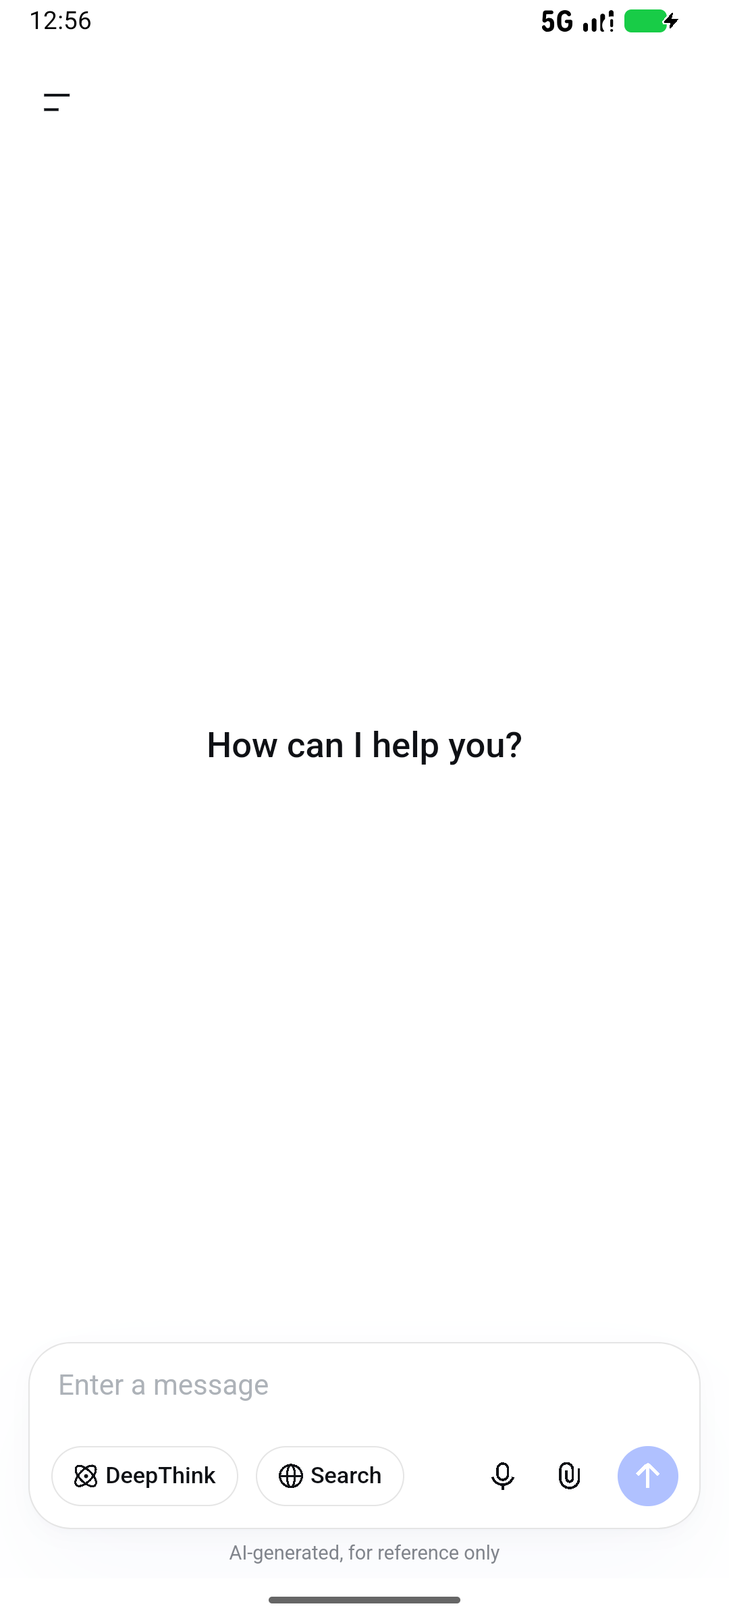
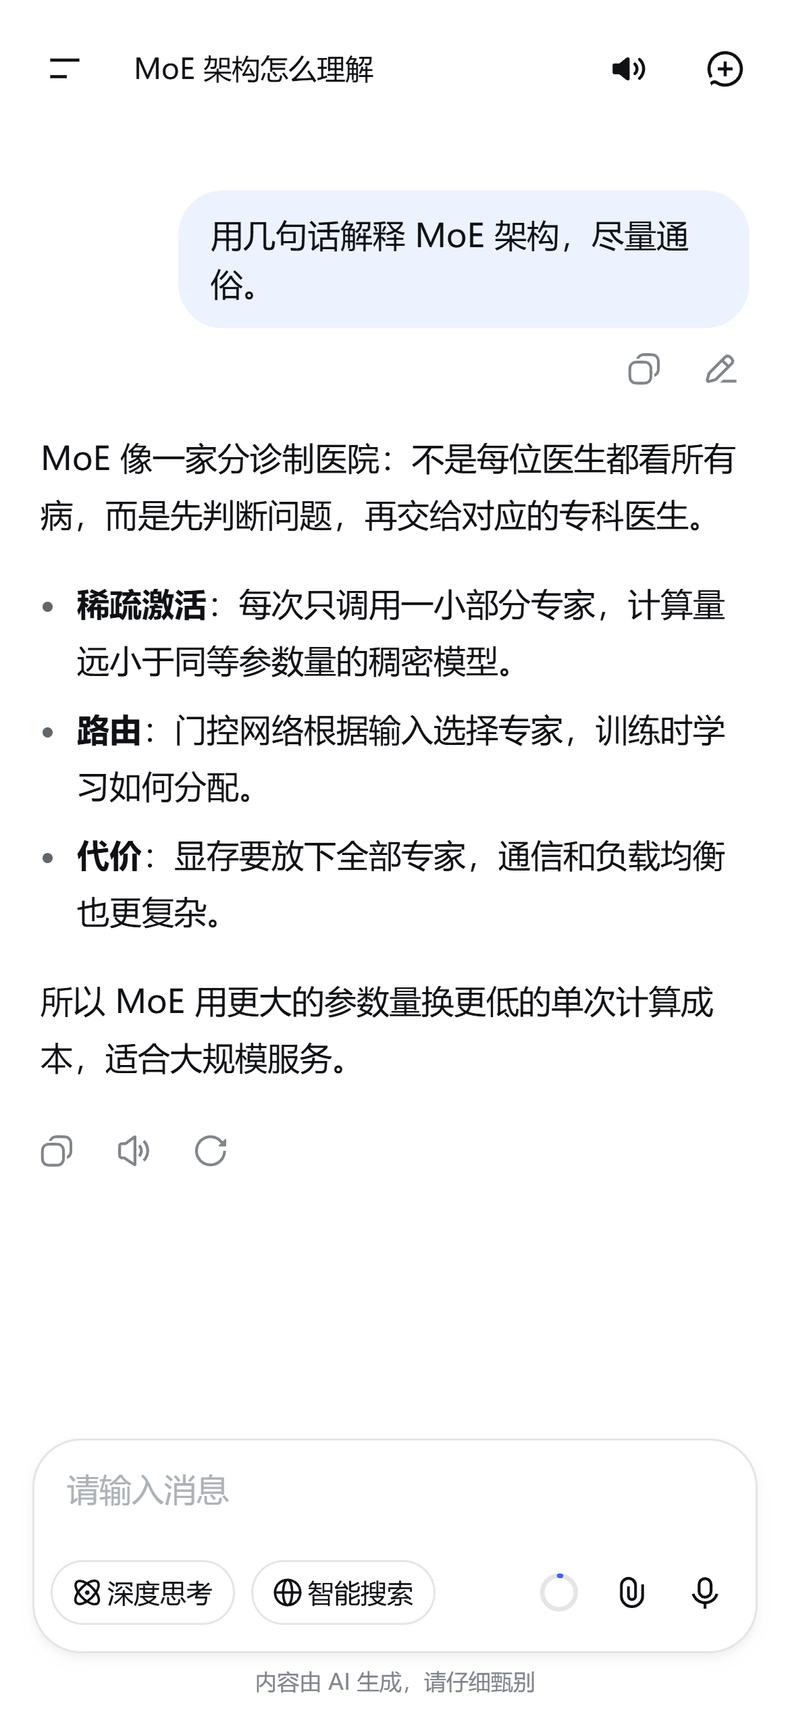
docs: 更新 README 截图与功能说明

diff --git a/README.en.md b/README.en.md
@@ -8,13 +8,18 @@ English | [简体中文](README.md)
 
 [![Latest release](https://img.shields.io/github/v/release/Jay-Victor/DeepSeek-ChatBot?label=release&color=4D6BFE)](https://github.com/Jay-Victor/DeepSeek-ChatBot/releases/latest)
 [![Download APK](https://img.shields.io/badge/download-APK-3DDC84?logo=android&logoColor=white)](https://github.com/Jay-Victor/DeepSeek-ChatBot/releases/latest)
+[![DeepSeek](https://img.shields.io/badge/DeepSeek-4D6BFE?logo=deepseek&logoColor=white)](https://www.deepseek.com/)
 
 Packs [deepseek-ai/chat-demo](https://github.com/deepseek-ai/chat-demo) 0.1.1 into an installable Android app:
 **the upstream web build, wrapped in a thin Kotlin WebView shell**. No UI rewrite, no protocol changes.
 
-<p align="center">
-  <img src="docs/screenshot.png" width="300" alt="Screenshot">
-</p>
+| Chat | Sidebar |
+| :---: | :---: |
+| <img src="docs/screenshot.png" width="260" alt="Chat screen"> | <img src="docs/screenshot-sidebar.png" width="260" alt="Sidebar"> |
+
+| Settings · General | Settings · About |
+| :---: | :---: |
+| <img src="docs/screenshot-settings-general.png" width="260" alt="General settings"> | <img src="docs/screenshot-settings-about.png" width="260" alt="About page"> |
 
 | | |
 | --- | --- |
@@ -25,45 +30,54 @@ Packs [deepseek-ai/chat-demo](https://github.com/deepseek-ai/chat-demo) 0.1.1 in
 | Native deps | androidx only (webkit / browser / activity / core-splashscreen), no third-party runtime |
 | Toolchain | Gradle 8.14.4 · AGP 8.13.0 · Kotlin 2.3.0 · JDK 17+ |
 
-## Why a WebView shell
-
-The upstream project is a pure static SPA: `rspack` emits static files, there is no backend, all state lives in
-localStorage and IndexedDB, and requests go straight to the DeepSeek API. Getting it into a WebView only needs the six
-capabilities a browser has and a WebView does not. Rewriting it in Kotlin would mean reimplementing Markdown, KaTeX,
-Mermaid, and the whole history import/export layer for no gain.
-
 ## Features
 
-Everything in the UI comes from upstream: multiple sessions with auto-generated titles, edit / regenerate / branch
-switching, streaming answers, deep thinking, web search with source citations, attachments (paste and drag-drop),
-voice input and read-aloud, Markdown with syntax highlighting, KaTeX math and Mermaid diagrams, Chinese and English,
-light and dark themes, ZIP history import/export.
+### From upstream
 
-Added by the shell: system back button, status bar appearance, safe areas and keyboard avoidance, microphone
-permission, file picker, saving exports to disk, opening external links, an optional "collapse thinking
-automatically" switch, version info / GitHub Release update checks in Settings → About (automatic checks can be
-turned off), a context-usage ring in the composer (DeepSeek-V4 tokenizer, 1M window, refreshed after each
-turn), and in-app update installation from Settings → About (SHA-256, signature and version are verified before
-handing the APK to the system installer). On mobile, the sidebar gains local session search (titles plus the
-current branch's text and attachment names, with highlighted hits), a floating New button at the bottom, and
-multi-select with batch pin/delete, and the session header's new-chat button is always visible; the session header
-also gains an auto-read toggle that reads each completed reply aloud, and the session menu gains pin/unpin and
-multi-select. The desktop sidebar is unchanged.
+- Multiple sessions with auto-generated titles, edit / regenerate / branch switching
+- Streaming answers, deep thinking, web search with source citations
+- Attachments (paste / drag-drop), voice input and read-aloud
+- Markdown / syntax highlighting / KaTeX / Mermaid
+- Chinese and English, light and dark themes, ZIP history import/export
 
-## Requirements
+### Added by the shell
+
+- **System capabilities**: back button, status bar appearance, safe areas and keyboard avoidance, microphone, file picker, external links
+- **Export**: ZIP through SAF (WebView drops `blob:` downloads)
+- **Mobile sidebar**: session search (title + current branch text, highlighted hits), floating New button, multi-select with batch pin/delete
+- **Session header**: auto-read toggle; reads each completed reply aloud and shows a 1.6-second centered hint when toggled
+- **Session menu**: pin / unpin and multi-select
+- **Settings & About**: auto-collapse thinking, context-usage ring (DeepSeek-V4 tokenizer, 1M window), version and update check, in-app install
+
+## Quick start
+
+Download the signed APK from [Releases](https://github.com/Jay-Victor/DeepSeek-ChatBot/releases/latest), or:
+
+```bash
+adb install -r DeepSeekChatBot-v0.1.9-release.apk
+```
+
+On first launch, add your DeepSeek API key in Settings → Data. The key is written only to the on-device WebView localStorage and is excluded from cloud backup (`allowBackup=false`).
+
+**The same `applicationId` must always be signed with the same keystore** — otherwise the only option is uninstall and reinstall, which wipes local sessions and the API key.
+
+## Why a WebView shell
+
+The upstream project is a pure static SPA: `rspack` emits static files, there is no backend, all state lives in localStorage and IndexedDB, and requests go straight to the DeepSeek API. Getting it into a WebView only needs six kinds of capabilities a browser has and a WebView does not. Rewriting it in Kotlin would mean reimplementing Markdown, KaTeX, Mermaid, and the whole history import/export layer for no gain. So the shell only fills the gaps.
+
+## Build
+
+Requirements:
 
 - Node.js 22+ and pnpm
 - JDK 17+ (this repository was built with 21)
 - Android SDK: platform `android-36`, build-tools `36.1.0`
 
-## Build
-
 ```bash
 scripts/build-apk.sh release        # or scripts/build-apk.sh debug
 ```
 
-The script does three things: `pnpm build` inside `web/`, sync `web/dist` into
-`android/app/src/main/assets/www`, then `./gradlew assembleRelease`. Output:
+The script does three things: `pnpm build` inside `web/`, sync `web/dist` into `android/app/src/main/assets/www`, then `./gradlew assembleRelease`. Output:
 
 ```
 android/app/build/outputs/apk/release/DeepSeekChatBot-v0.1.9-release.apk
@@ -78,23 +92,7 @@ cp -r dist/. ../android/app/src/main/assets/www/
 cd ../android && ./gradlew assembleRelease
 ```
 
-> Do not serve `web/dist` from a static server while building: rspack cleans the output directory and fails with
-> `EBUSY` on Windows.
-
-## Install
-
-```bash
-adb install -r android/app/build/outputs/apk/release/DeepSeekChatBot-v0.1.9-release.apk
-```
-
-If you would rather not build it yourself, the signed APK is attached to the
-[latest release](https://github.com/Jay-Victor/DeepSeek-ChatBot/releases/latest).
-
-On first launch the app asks for an API key (Settings → Data). The key is written only to the on-device WebView
-localStorage and is excluded from cloud backup (`allowBackup=false`).
-
-**The same `applicationId` must always be signed with the same keystore** — otherwise the only option is uninstall and
-reinstall, which wipes local sessions and the API key.
+> Do not serve `web/dist` from a static server while building: rspack cleans the output directory and fails with `EBUSY` on Windows.
 
 ## Signing
 
@@ -104,9 +102,7 @@ reinstall, which wipes local sessions and the API key.
 KEYSTORE_FILE / KEYSTORE_PASSWORD / KEYSTORE_ALIAS / KEY_PASSWORD
 ```
 
-If any of them is missing, `assembleRelease` still produces an APK, just unsigned. The keystore generated for this
-repository is recorded in `android/KEYSTORE_INFO.txt` (also gitignored) — back it up, or you lose the ability to
-upgrade in place.
+If any of them is missing, `assembleRelease` still produces an APK, just unsigned. The keystore generated for this repository is recorded in `android/KEYSTORE_INFO.txt` (also gitignored) — back it up, or you lose the ability to upgrade in place.
 
 ## What the shell implements
 
@@ -121,53 +117,35 @@ upgrade in place.
 | System bars and keyboard | Container padding reserves status bar, navigation bar and IME height; status bar icons follow the page theme |
 | Light/dark | `values/` uses a light base theme, `values-night/` a dark one — WebView derives `prefers-color-scheme` from the app theme, not from system uiMode |
 
+## Known limitations
+
+- **Auto-read makes TTS requests**: one per completed reply, off by default; only for the active chat, only when visible, and it does not interrupt an ongoing reading
+- **Session search, pinning and multi-select are mobile-only**: search matches titles, current branch text and attachment names, not thinking blocks; the first search builds a local index, so a large history may pause briefly
+- **Background / lock screen**: the system throttles WebView, so long generations may be interrupted. Keeping it running while locked needs a foreground service, which is not implemented
+- **System dark mode**: the page renders with the theme present at launch (`configChanges` includes `uiMode` so the activity is never recreated and streaming survives). A system theme switch takes effect on the next launch; the in-app Settings → Theme switch applies immediately
+- Large attachments (tens of MB) go through SAF into memory before upload; low-end devices risk OOM (`largeHeap` is enabled, which only helps)
+- DeepSeek endpoints only (`/anthropic/v1/messages`, `/anthropic/v1/files`, `/v1/tools/asr|tts`). Supporting an OpenAI-compatible endpoint means changing `web/src/services/api/`
+- In-app updates need access to GitHub release assets (the `api.github.com` asset endpoint is preferred). On restricted networks the download may fail; use "Download in browser" instead. The first install also requires allowing unknown sources in system settings
+- No iOS build: the same six capabilities would need a separate implementation there
+
+## Verification status
+
+Checked on Android 16 (API 36.1, x86_64 emulator) for the shell: page origin and secure context, CORS on the streaming endpoint and 401 error mapping, ZIP export written to disk (downloaded file md5 matches the source data), microphone permission flow, file picker, external links opening in Custom Tabs, all three levels of back button behaviour, light/dark with status bar inversion, insets/keyboard without double spacing, and in-app update download progress / SHA-256 and signature verification / unknown-sources permission / system installer upgrade.
+
+v0.1.9's mobile sidebar (search, multi-select, pinned group, batch delete, floating New, persistent header button), session menu (pin / unpin / multi-select) and auto-read toggle (including the 1.6-second centered hint and the auto-read trigger) were checked in a 390×844 viewport; real audio output and the Android IME behaviour still need an on-device check.
+
 ## Repository layout
 
 ```
 web/        upstream chat-demo 0.1.1 sources; see web/PATCHES.md for local changes
 android/    Kotlin WebView shell (Gradle project)
 scripts/    build-apk.sh: build web → sync assets → build APK
-docs/       screenshots
+docs/       screenshots and per-version release notes
 references/ upstream archive and icon assets (not tracked)
 ```
 
-## Known limitations
-
-- **Session search and multi-select are mobile-only**: search matches titles, the current branch's text and
-  attachment names, but not thinking blocks. The first search builds a local index, so a large history may pause
-  briefly. Multi-select supports batch pin/delete; pinned state is stored locally and kept through ZIP export/import.
-  The desktop sidebar keeps its original full-width New button and list.
-- **Background / lock screen**: the system throttles WebView, so long generations may be interrupted. Keeping it
-  running while locked needs a foreground service, which is not implemented.
-- **System dark mode**: the page renders with the theme present at launch (`configChanges` includes `uiMode` so the
-  activity is never recreated and streaming survives). A system theme switch takes effect on the next launch; the
-  in-app Settings → Theme switch applies immediately.
-- Large attachments (tens of MB) go through SAF into memory before upload; low-end devices risk OOM (`largeHeap` is
-  enabled, which only helps).
-- DeepSeek endpoints only (`/anthropic/v1/messages`, `/anthropic/v1/files`, `/v1/tools/asr|tts`). Supporting an
-  OpenAI-compatible endpoint means changing `web/src/services/api/`.
-- In-app updates need access to GitHub release assets (the `api.github.com` asset endpoint is preferred). On
-  restricted networks the download may fail; use "Download in browser" instead. The first install also requires
-  allowing unknown sources in system settings. Keep the app in the foreground while downloading; if the process is
-  reclaimed, the download starts over.
-- No iOS build: the same six capabilities would need a separate implementation there.
-
-## Verification status
-
-Checked on Android 16 (API 36.1, x86_64 emulator): page origin and secure context, CORS on the streaming endpoint and
-401 error mapping, ZIP export written to disk (downloaded file md5 matches the source data), microphone permission
-flow, file picker, external links opening in Custom Tabs, all three levels of back button behaviour, light/dark with
-status bar inversion, insets/keyboard without double spacing, and in-app update download progress / SHA-256 and
-signature verification / unknown-sources permission / system installer upgrade. On-device confirmation is still
-pending. This version's mobile sidebar (search, multi-select, pinned group, batch delete, floating New, persistent
-header button), the session menu (pin / unpin / multi-select) and the auto-read toggle (including the 1.6-second
-centered hint and the auto-read trigger) were checked in a 390×844 viewport; real audio output and the Android IME
-behaviour still need an on-device check.
-
 ## License
 
-[MIT](LICENSE). `web/` is a derived copy of [deepseek-ai/chat-demo](https://github.com/deepseek-ai/chat-demo); its MIT
-notice is kept in `web/LICENSE` and ships with the build output. The icon artwork and the DeepSeek name are used for a
-personal, side-loaded build only.
+[MIT](LICENSE). `web/` is a derived copy of [deepseek-ai/chat-demo](https://github.com/deepseek-ai/chat-demo); its MIT notice is kept in `web/LICENSE` and ships with the build output. The icon artwork and the DeepSeek name are used for a personal, side-loaded build only.
 
 See [CHANGELOG.md](CHANGELOG.md) for history.

diff --git a/README.md b/README.md
@@ -8,13 +8,18 @@
 
 [![Latest release](https://img.shields.io/github/v/release/Jay-Victor/DeepSeek-ChatBot?label=release&color=4D6BFE)](https://github.com/Jay-Victor/DeepSeek-ChatBot/releases/latest)
 [![Download APK](https://img.shields.io/badge/download-APK-3DDC84?logo=android&logoColor=white)](https://github.com/Jay-Victor/DeepSeek-ChatBot/releases/latest)
+[![DeepSeek](https://img.shields.io/badge/DeepSeek-4D6BFE?logo=deepseek&logoColor=white)](https://www.deepseek.com/)
 
 把 [deepseek-ai/chat-demo](https://github.com/deepseek-ai/chat-demo) 0.1.1 原样装进 Android：
 **上游前端产物 + 一层 Kotlin WebView 壳**，不重写界面，也不改协议。
 
-<p align="center">
-  <img src="docs/screenshot.png" width="300" alt="界面截图">
-</p>
+| 会话 | 侧边栏 |
+| :---: | :---: |
+| <img src="docs/screenshot.png" width="260" alt="会话页截图"> | <img src="docs/screenshot-sidebar.png" width="260" alt="侧边栏截图"> |
+
+| 设置 · 通用 | 设置 · 关于 |
+| :---: | :---: |
+| <img src="docs/screenshot-settings-general.png" width="260" alt="通用设置截图"> | <img src="docs/screenshot-settings-about.png" width="260" alt="关于页截图"> |
 
 | | |
 | --- | --- |
@@ -25,26 +30,50 @@
 | 原生依赖 | 仅 androidx（webkit / browser / activity / core-splashscreen），无第三方运行时 |
 | 构建工具链 | Gradle 8.14.4 · AGP 8.13.0 · Kotlin 2.3.0 · JDK 17+ |
 
+## 功能
+
+### 来自上游
+
+- 多会话与自动标题、编辑提问、重新生成、消息分支
+- 流式回答、深度思考、智能搜索与来源引用
+- 附件上传（粘贴 / 拖拽）、语音输入与朗读
+- Markdown / 代码高亮 / KaTeX 公式 / Mermaid 图表
+- 中英文、浅色深色、ZIP 历史导入导出
+
+### 壳补上的部分
+
+- **系统能力**：返回键、状态栏配色、安全区与键盘避让、麦克风、文件选择、外链
+- **导出**：ZIP 走 SAF 落盘（WebView 会丢弃 `blob:` 下载）
+- **移动端侧边栏**：会话搜索（标题 + 当前分支正文，命中高亮）、底部浮动「新建」、多选批量置顶 / 删除
+- **会话页顶栏**：自动朗读开关；开启后每条新完成的回复自动朗读，切换时在屏幕中央显示 1.6 秒提示
+- **会话三点菜单**：置顶 / 取消置顶、多选
+- **设置与关于**：思考内容自动折叠、上下文占用环（DeepSeek-V4 分词器，1M 窗口）、版本与更新检查、应用内下载安装
+
+## 快速开始
+
+从 [Releases](https://github.com/Jay-Victor/DeepSeek-ChatBot/releases/latest) 下载签名 APK，或：
+
+```bash
+adb install -r DeepSeekChatBot-v0.1.9-release.apk
+```
+
+首次启动在「设置 → 数据管理」填入自己的 DeepSeek API Key；Key 只写在本机 WebView 的 localStorage，不进云备份（`allowBackup=false`）。
+
+**同一 `applicationId` 必须始终用同一个 keystore 签名**，否则只能卸载重装，本地会话与 Key 会一起清空。
+
 ## 为什么是 WebView 壳
 
 上游是纯静态 SPA：`rspack` 打成静态文件、没有后端，状态全在 localStorage 与 IndexedDB，请求直连 DeepSeek API。
-它跑进 WebView 只差六件「浏览器有、WebView 没有」的能力；重写成 Kotlin 反而要丢掉 Markdown、KaTeX、Mermaid、历史导入导出那一整套实现。
+它跑进 WebView 只差六类「浏览器有、WebView 没有」的能力；重写成 Kotlin 反而要丢掉 Markdown、KaTeX、Mermaid、历史导入导出那一整套实现。
 所以这里只补壳，不动业务。
 
-## 功能
+## 构建
 
-界面能力全部来自上游：多会话与自动标题、编辑提问、重新生成、消息分支、流式回答、深度思考、智能搜索与来源引用、
-附件上传（粘贴/拖拽）、语音输入与朗读、Markdown / 代码高亮 / KaTeX 公式 / Mermaid 图表、中英文、浅色深色、历史导入导出（ZIP）。
-
-壳补上的部分：系统返回键、状态栏配色、安全区与键盘避让、麦克风权限、文件选择、导出落盘、外链，「设置」里的思考内容自动折叠，「关于」里的版本信息与 GitHub Release 更新检查（自动检查可关），输入框里的上下文占用环（按 DeepSeek-V4 分词器统计，1M 窗口，回合结束更新），以及「关于」页的应用内下载安装更新（校验 SHA-256、签名与版本号后交给系统安装器）；移动端侧边栏新增会话搜索（标题与当前分支正文，命中高亮）、底部浮动「新建」和多选批量置顶 / 删除，会话顶栏的新建按钮改为常驻。会话页顶栏新增自动朗读开关（新回复完成后自动朗读，可随时关闭）；移动端会话三点菜单可直接置顶 / 取消置顶或进入多选。
-
-## 环境要求
+环境要求：
 
 - Node.js 22+ 与 pnpm
 - JDK 17+（本仓库用 21 构建）
 - Android SDK：platform `android-36`、build-tools `36.1.0`
-
-## 构建
 
 ```bash
 scripts/build-apk.sh release        # 或 scripts/build-apk.sh debug
@@ -67,18 +96,6 @@ cd ../android && ./gradlew assembleRelease
 ```
 
 > 构建前别用静态服务器占着 `web/dist`：rspack 会清空输出目录，Windows 下直接报 `EBUSY`。
-
-## 安装
-
-```bash
-adb install -r android/app/build/outputs/apk/release/DeepSeekChatBot-v0.1.9-release.apk
-```
-
-不想自己构建的话，[Releases](https://github.com/Jay-Victor/DeepSeek-ChatBot/releases/latest) 里直接下签名好的 APK。
-
-首次启动会要求填 API Key（设置 → 数据管理）。Key 只写在本机 WebView 的 localStorage，不进云备份（`allowBackup=false`）。
-
-**同一 `applicationId` 必须始终用同一个 keystore 签名**，否则只能卸载重装，本地会话与 Key 会一起清空。
 
 ## 签名
 
@@ -104,35 +121,35 @@ KEYSTORE_FILE / KEYSTORE_PASSWORD / KEYSTORE_ALIAS / KEY_PASSWORD
 | 系统栏与键盘 | 由容器 padding 留出状态栏、导航栏与输入法高度；状态栏字色随页面主题反色 |
 | 深浅色 | `values/` 用浅色基主题、`values-night/` 用深色基——WebView 的 `prefers-color-scheme` 取自应用主题而非系统 uiMode |
 
+## 已知限制
+
+- **自动朗读会产生 TTS 调用**：每条完成的回复一次，默认关闭；只读当前会话、前台完成的回复，正在朗读其他内容时不打断
+- **会话搜索、置顶与多选只在移动端侧边栏**：搜索匹配标题、当前分支正文与附件名，不含思考内容；首次搜索需建本地索引，历史很多时会有短暂延迟
+- **后台 / 锁屏**：WebView 会被系统节流，长时间生成可能中断；「锁屏继续跑」需要前台服务，未实现
+- **系统深色模式**：页面按启动时的系统主题渲染（`configChanges` 含 `uiMode`，为的是不重建 Activity、不丢流式回复），运行中切系统主题要重启应用才生效；应用内「设置 → 主题」可立即切换
+- 大附件（几十 MB）经 SAF 进内存再上传，低端机有 OOM 风险（已开 `largeHeap`）
+- 只支持 DeepSeek 官方接口（`/anthropic/v1/messages`、`/anthropic/v1/files`、`/v1/tools/asr|tts`）；换 OpenAI 兼容端点需要改 `web/src/services/api/`
+- 应用内更新需要访问 GitHub 资产（优先 `api.github.com` 资产入口）；受限网络可能下载失败，此时可用「在浏览器中下载」，首次安装还需在系统设置里允许未知来源
+- 没有 iOS 版本：同样六类能力在 iOS 上要另写一份
+
+## 验证状态
+
+在 Android 16（API 36.1，x86_64 模拟器）上核对过壳层：页面 origin 与安全上下文、流式端点的 CORS 与 401 错误映射、
+ZIP 导出落盘（下载文件 md5 与源数据一致）、麦克风授权链路、文件选择、外链进入 Custom Tabs、返回键三级行为、
+浅色深色与状态栏反色、安全区与键盘不双留白、应用内更新的下载进度 / SHA-256 与签名校验 / 未知来源授权 / 系统安装器覆盖安装。
+
+v0.1.9 的移动端侧边栏（搜索、多选、置顶分组、批量删除、浮动新建、顶栏常驻）、会话菜单（置顶 / 取消置顶 / 多选）
+与顶栏自动朗读开关（含 1.6 秒居中提示与自动朗读触发）在 390×844 视口核对；自动朗读的真实出声与真机输入法待确认。
+
 ## 仓库结构
 
 ```
 web/        上游 chat-demo 0.1.1 源码；相对上游的改动见 web/PATCHES.md
 android/    Kotlin WebView 壳（Gradle 工程）
 scripts/    build-apk.sh：构建 Web → 同步 assets → 出 APK
-docs/       截图
+docs/       截图与按版本归档的 Release 正文
 references/ 上游原始压缩包与图标素材（不进版本库）
 ```
-
-## 已知限制
-
-- **会话搜索与多选只在移动端侧边栏**：搜索按标题、当前分支正文与附件名匹配，不含思考内容；首次搜索需建本地索引，历史很多时会有短暂延迟。多选支持批量置顶 / 删除，置顶写入本地并随 ZIP 导入导出。桌面端侧边栏保持原来的全宽新建按钮与列表。
-- **后台 / 锁屏**：WebView 会被系统节流，长时间生成可能中断；「锁屏继续跑」需要前台服务，未实现。
-- **系统深色模式**：页面按启动时的系统主题渲染（`configChanges` 含 `uiMode`，为的是不重建 Activity、不丢流式回复），
-  运行中切系统主题要重启应用才生效；应用内「设置 → 主题」可立即切换。
-- 大附件（几十 MB）经 SAF 进内存再上传，低端机有 OOM 风险（已开 `largeHeap`）。
-- 只支持 DeepSeek 官方接口（`/anthropic/v1/messages`、`/anthropic/v1/files`、`/v1/tools/asr|tts`）；
-  换 OpenAI 兼容端点需要改 `web/src/services/api/`。
-- 应用内更新需要访问 GitHub 资产（优先 `api.github.com` 资产入口）；受限网络可能下载失败，此时可用
-  「在浏览器中下载」，首次安装还需在系统设置里允许未知来源。下载期间请保持应用在前台，进程被系统回收后需要重新下载。
-- 没有 iOS 版本：同样六项能力在 iOS 上要另写一份。
-
-## 验证状态
-
-在 Android 16（API 36.1，x86_64 模拟器）上核对过：页面 origin 与安全上下文、流式端点的 CORS 与 401 错误映射、
-ZIP 导出落盘（下载文件 md5 与源数据一致）、麦克风授权链路、文件选择、外链进入 Custom Tabs、返回键三级行为、
-浅色深色与状态栏反色、安全区与键盘不双留白、应用内更新的下载进度 / SHA-256 与签名校验 / 未知来源授权 /
-系统安装器覆盖安装。真机待安装后确认。本版移动端侧边栏（搜索、多选、置顶分组、批量删除、浮动新建、顶栏常驻）、会话菜单（置顶 / 取消置顶 / 多选）与顶栏自动朗读开关（含 1.6 秒居中提示与自动朗读触发）在 390×844 视口核对；自动朗读的真实出声与真机输入法待确认。
 
 ## 许可证
 
